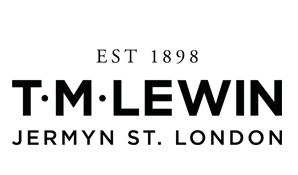
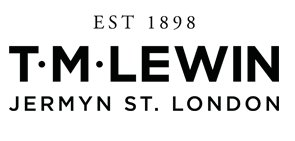
Changes to role pages to align them

Changed region(s): [[0.0305, 0.2553, 0.9763, 0.8511], [0.3051, 0.0851, 0.4576, 0.227], [0.4881, 0.1135, 0.6712, 0.227]]

diff --git a/css/style.css b/css/style.css
@@ -1248,6 +1248,10 @@ textarea {
   margin-top: 10px;
 }
 
+.search-page-container {
+  margin: 10px 0 200px;
+}
+
 .search-criteria-para {
   width: 80%;
   margin: 20px auto 0;
@@ -1728,8 +1732,8 @@ textarea {
 
   .company-details-role-page-rec-logo {
     display: inline-block;
-    width: 65%;
-    margin-left: 20px;
+    width: 60%;
+    margin-left: 35px;
   }
 
   .company-details-role-page {
@@ -2142,6 +2146,10 @@ textarea {
   /*role page styling*/
   .role-container {
     width: 80%;
+  }
+
+  .company-img-rec-logo {
+    width: 20%;
   }
 
   .company-info {

diff --git a/2-to-5-years-PQE.html b/2-to-5-years-PQE.html
@@ -102,7 +102,7 @@
       </div>
     </section>
 
-    <section class="background-container">
+    <section class="search-page-container">
       <div class="clearfix links">
         <a href="http://www.calxx.co.uk" class="home-page">
           <i class="fa fa-home"></i>

diff --git a/finance-manager-tmlewin.php b/finance-manager-tmlewin.php
@@ -226,19 +226,19 @@
               <li class="key-requirements-li">
                 <div>
                   <i class="fa fa-graduation-cap"></i>
-                  <p class="key-requirements-text">c. 2 years PQE</p>
+                  <p class="key-requirements-text">c. 2 to 5 years PQE</p>
                 </div>
               </li>
               <li class="key-requirements-li">
                 <div>
                   <i class="fa fa-star"></i>
-                  <p class="key-requirements-text">Finance skills: Business Partnering, Planning</p>
+                  <p class="key-requirements-text">Finance skills: Financial Reporting, Planning</p>
                 </div>
               </li>
               <li class="key-requirements-li">
                 <div>
                   <i class="fa fa-balance-scale"></i>
-                  <p class="key-requirements-text">Industry experience essential, retail experience advantagous</p>
+                  <p class="key-requirements-text">Retail experience essential</p>
                 </div>
               </li>
               <li class="key-requirements-li">
@@ -258,9 +258,7 @@
 
           <div class="key-requirements">
             <h5>Why apply for the role</h5>
-            <p>Digital is changing the world, starting with the way we shop. Today it’s online shopping and click-and-collect, tomorrow it will be something not yet imagined. It’s a fast-moving world, where fresh ideas are welcome – along with the pace and flexibility to lead the way.
-            Kingfisher is building a state-of-the-art digital home in the heart of London – a place where digital creators and innovators like you will come together and shape the digital future for more than 23 million home improvement customers in 1,176 stores in the UK and across Europe.
-            It’s a chance to be part of something new. A chance to do big things in small, close-knit teams. A chance to feel the energy of a small agency – with the financial resources of a major retailer. And a chance to be rewarded for your talent, creativity and energy as well as your time.</p>
+            <p>TM Lewin is passionate about its people and offers the opportunity to work in a fun, energetic and fast paced culture. We are high performing business and provide high levels of challenge and support. The role will offer the opportunity for the right candidate to role switch within a dynamic finance team to gain a wider base of experience in what is a dynamic and growing business.</p>
           </div>
 
           <div class="role-descrip">
@@ -272,99 +270,122 @@
               </li>
               <li>
                 <i class="fa fa-check-circle font-awesome-icon"></i>
-                <p class="list-items-para">Pension up to 22%</p>
+                <p class="list-items-para">Generous holiday entitlement which grows with your length of service</p>
               </li>
               <li>
                 <i class="fa fa-check-circle font-awesome-icon"></i>
-                <p class="list-items-para">Competitive annual bonus</p>
+                <p class="list-items-para">Substantial discount for you AND your family and friends</p>
               </li>
               <li>
                 <i class="fa fa-check-circle font-awesome-icon"></i>
-                <p class="list-items-para">25 days leave</p>
-              </li>
-              <li>
-                <i class="fa fa-check-circle font-awesome-icon"></i>
-                <p class="list-items-para">
-                Life assurance and health care cover</p>
+                <p class="list-items-para">Complimentary workwear from the T.M. Lewin range</p>
               </li>
               <li>
                 <i class="fa fa-check-circle font-awesome-icon"></i>
                 <p class="list-items-para">
-                Share save scheme</p>
+                Performance related bonus scheme</p>
               </li>
               <li>
                 <i class="fa fa-check-circle font-awesome-icon"></i>
                 <p class="list-items-para">
-                Cycle to work</p>
+                LOVE2SHOP everyday benefit card offering discounts across 60 retailers</p>
+              </li>
+              <li>
+                <i class="fa fa-check-circle font-awesome-icon"></i>
+                <p class="list-items-para">
+                Cycle to work scheme</p>
               </li>
               <li>
                 <i class="fa fa-check-circle font-awesome-icon"></i>
                 <p class="list-items-para">
                   20% discount card</p>
               </li>
+              <li>
+                <i class="fa fa-check-circle font-awesome-icon"></i>
+                <p class="list-items-para">
+                  Season ticket loan</p>
+              </li>
             </ul>
           </div>
 
           <div class="role-descrip">
             <h5>The role</h5>
-            <p>Kingfishers Digital activity has grown significantly over the last 2 years, pursuant of the One Kingfisher strategy. We now have established finance processes within our Digital teams. Our Digital Programmes and Projects are co-led by a Business Transformation Managers (BTMs) and IT Delivery Leads. Whilst the IT Delivery Lead is responsible for building and delivering IT functionality, the BTM is responsible for ensuring it lands within the business. The work load now necessitates hiring finance business partnering support for the BTMs and IT Delivery Leads.</p>
-            <p class="margin-adj">The Business Partner is a key role within the Finance Team, working closely with the BTMs and IT Delivery Leads alike. The role delivers advanced insight and value added analysis, building strong relationships across the function, including significant interaction with the Digital leadership team and the group finance function. The role will also be responsible for providing analytical support on key business decisions and on-going appraisal of existing Digital projects via Business Cases.</p>
-            <p class="margin-adj">Key responsibilities include:</p>
+            <p>TM Lewin is seeking a Finance Manager to assume responsibility for the production of management accounts, including banking and cash flow forecasting. This role will report into the Head of finance and CFO.</p>
+            <p class="margin-adj">The role will primarily involve the following duties and responsibilities:</p>
             <ul class="terms-line-items terms-line-items-adj">
-              <li>Responsibility for consolidated cost story</li>
+              <li>Overseeing the full spectrum of financial and management accounting, including regulatory reporting for the business (audit and tax compliance)</li>
               <li>
-              Providing costs for Business cases relating to Digital Product/Service
+              Cash flow forecasting and Forex requirements
               </li>
               <li>
-              Support key stakeholders on all finance related topics
+              Establishing and building excellent relationships with key stakeholders across the business, including all members of the Executive Board
               </li>
               <li>
-              Ownership for month end, group forecasts and budget. Consolidating, reviewing and challenging the costs with stakeholders.
-              </li>
-            </ul>
-          </div>
-
-          <div class="role-descrip">
-            <h5>We are looking for a business partner that can:</h5>
-            <ul class="terms-line-items terms-line-items-adj">
-              <li>Take a Lead role in all planning and forecasting activities of Digital - actively contributing to the planning process and decision making regarding assumptions, challenging key stakeholders where necessary and ensuring that all assumptions are robust and defensible.</li>
-              <li>
-              Take responsibility for delivering improvements in modelling, forecasting and analytical techniques to improve reporting and analysis
+              Working closely with the Merchandising team in regards to managing stock intake.
               </li>
               <li>
-              Provide analytical support on key business decisions, including new business initiatives and on-going appraisal of existing projects performance
+                Responsibility for Tax, VAT and duty, supporting the Head of Finance in regards to setting up of the tax structure within the business.
               </li>
               <li>
-              Build strong relationships with key contacts and provide high quality analysis that helps drive improvement
+                Ensuring our ways of working are as cost-effective as possible by monitoring day-to-day reporting and also implementing new processes where necessary
+              </li>
+              <li>
+                Providing performance leadership in the continuous evaluation of short and long-term strategic objectives
+              </li>
+              <li>
+                Effectively managing a team
+              </li>
+              <li>
+                Providing support with audits in conjunction with the Head of Finance.
               </li>
             </ul>
           </div>
 
           <div class="role-descrip">
             <h5>Experience</h5>
-            <p>The successful candidate will be either be a qualified Finance Professional (ACA, ACCA, CIMA or equivalent), who is highly numerate with the ability to produce robust financial analysis. In addition:</p>
+            <p>The successful candidate will be either be a qualified Finance Professional (ACA, ACCA, CIMA), who has experience as a Finance Manager within a fast-paced retail environment, ideally from a practice background. In addition:</p>
             <ul>
               <li>
                 <i class="fa fa-check-circle font-awesome-icon"></i>
-                <p class="list-items-para">         have a proven track record of delivering quantifiable benefits to businesses</p>
+                <p class="list-items-para">         Be proficient in team management</p>
               </li>
               <li>
                 <i class="fa fa-check-circle font-awesome-icon"></i>
-                <p class="list-items-para">be comfortable working in a fast-paced and highly fluid environment</p>
+                <p class="list-items-para">Strong commercial awareness</p>
               </li>
               <li>
                 <i class="fa fa-check-circle font-awesome-icon"></i>
-                <p class="list-items-para">Excellent analytical skills are a necessity</p>
-              </li>
-              <li>
-                <i class="fa fa-check-circle font-awesome-icon"></i>
-                <p class="list-items-para">
-                Strong relationship building, resilience and interpersonal skills are a pre-requisite</p>
+                <p class="list-items-para">The ability to deal with people at all levels across our business</p>
               </li>
               <li>
                 <i class="fa fa-check-circle font-awesome-icon"></i>
                 <p class="list-items-para">
-                We expect the candidate to have at least 2 years experience out of the profession but if you can demonstrate the necessary skills and experience that we require, please do apply.</p>
+                Strong presentation skills and experience presenting to senior management and directors</p>
+              </li>
+              <li>
+                <i class="fa fa-check-circle font-awesome-icon"></i>
+                <p class="list-items-para">
+                Excellent oral and written communication skills</p>
+              </li>
+              <li>
+                <i class="fa fa-check-circle font-awesome-icon"></i>
+                <p class="list-items-para">
+                Strong knowledge of accounting regulations</p>
+              </li>
+              <li>
+                <i class="fa fa-check-circle font-awesome-icon"></i>
+                <p class="list-items-para">
+                Demonstrable problem-solving, analytical, technical, IT and numerical abilities</p>
+              </li>
+              <li>
+                <i class="fa fa-check-circle font-awesome-icon"></i>
+                <p class="list-items-para">
+                Ability to work to deadlines and be flexible to deal with changing focus and business demands</p>
+              </li>
+              <li>
+                <i class="fa fa-check-circle font-awesome-icon"></i>
+                <p class="list-items-para">
+                We expect the candidate to have between 2 and 5 years experience but if you can demonstrate the necessary skills and experience that we require, please do apply.</p>
               </li>
             </ul>
           </div>
@@ -378,7 +399,7 @@
           <div class="role-descrip">
             <h5>Next steps</h5>
             <p>If you are interested in this role, please complete the application form below. This form is sent directly to the hiring company for consideration.</p>
-            <p class="margin-adj">Kingfisher plc is an Equal Opportunities Employer and as such, treats all applications equally and recruits purely on the basis of skills and experience.</p>
+            <p class="margin-adj">TM Lewin is an Equal Opportunities Employer and as such, treats all applications equally and recruits purely on the basis of skills and experience.</p>
           </div>
 
           <section class="application-section">
@@ -417,13 +438,6 @@
                     <option value="CIMA">CIMA</option>
                   </select>
                   <span class="error"><?= $qualification_error ?></span>
-                  <p class="apply-now-para">Do you have experience in industry (i.e. outside of audit)?</p>
-                  <select name="experience" value="<?= $experience ?>" class="select-box-application" tabindex="3">
-                    <option value=""></option>
-                    <option value="Yes">Yes</option>
-                    <option value="No">No</option>
-                  </select>
-                  <span class="error"><?= $experience_error ?></span>
                   <p class="apply-now-para">Your salary expectations:</p>
                   <select name="salary_expectations" value="<?= $salary_expectations ?>" class="select-box-application" tabindex="3">
                     <option value=""></option>
@@ -472,7 +486,7 @@
       <section class="featured-job-container similar-job-container">
         <h4 class="featured-job-heading similar-job-heading">Similar Jobs</h4>
         <ul class="row-flex">
-          <li class="featured-job featured-jobs-list-item">
+          <!-- <li class="featured-job featured-jobs-list-item">
             <a href="http://www.calxx.co.uk/finance-manager-tmlewin" target="_blank" class="featured-jobs-link">
               <p class="featured-job-title">Finance Manager at TM Lewin</p>
               <div class="featured-job-info">
@@ -487,8 +501,8 @@
                 <p class="location-para">Perm and full-time</p>
               </div>
             </a>
-          </li>
-<!--
+          </li> -->
+
           <li class="featured-job featured-jobs-list-item">
             <a href="http://www.calxx.co.uk/finance-business-partner-kingfisher-digital" target="_blank" class="featured-jobs-link">
               <p class="featured-job-title">Finance Business Partner at Kingfisher Digital</p>
@@ -504,7 +518,7 @@
                 <p class="location-para">Perm and full-time</p>
               </div>
             </a>
-          </li> -->
+          </li>
 
           <li class="featured-job featured-jobs-list-item">
             <a href="http://www.calxx.co.uk/financial-controller-and-planning-verve" target="_blank" class="featured-jobs-link">
@@ -620,7 +634,7 @@
     </script>
     <script>
     function initMap() {
-      var uluru = {lat: 51.5199497, lng: -0.0848081};
+      var uluru = {lat: 51.5204549, lng: -0.1092142};
       var map = new google.maps.Map(document.getElementById('map'), {
       zoom: 15,
       center: uluru

diff --git a/form_processTMLEWIN.php b/form_processTMLEWIN.php
@@ -10,6 +10,7 @@ $file_msg = $firstname_error = $lastname_error = "";
 $email_error = "";
 $validation_error = $success = $qualification_error = "";
 $first_name = $last_name = $email = $infouse_error = "";
+$salary_expectations_error = $eligibility_error = "";
 
 
 if(isset($_POST["g-recaptcha-response"])) {
@@ -52,6 +53,18 @@ if(isset($_POST["g-recaptcha-response"])) {
       $qualification_error = "Please select from the dowpdown menu";
     } else {
       $qualification = ($_POST["qualification"]);
+    }
+
+    if ($_POST["salary_expectations"] == "") {
+      $salary_expectations_error = "Please select from the dowpdown menu";
+    } else {
+      $salary_expectations = ($_POST["salary_expectations"]);
+    }
+
+    if ($_POST["eligibility"] == "") {
+      $eligibility_error = "Please select from the dowpdown menu";
+    } else {
+      $eligibility = ($_POST["eligibility"]);
     }
 
     if ($_POST["validate_info"] == "") {
@@ -106,7 +119,7 @@ if(isset($_POST["g-recaptcha-response"])) {
         $file_msg = "Unknown error, please upload a different file";
     }
 
-      if ($firstname_error == "" and $lastname_error == "" and $email_error == "" and $qualification_error == "" and $validation_error == "" and $file_msg == "" and $infouse_error == "") {
+      if ($firstname_error == "" and $lastname_error == "" and $email_error == "" and $qualification_error == "" and $validation_error == "" and $file_msg == "" and $infouse_error == "" and $salary_expectations_error == "" and $eligibility_error == "") {
         require '/var/sites/c/calxx.co.uk/public_html/phpmailer/src/Exception.php';
         require '/var/sites/c/calxx.co.uk/public_html/phpmailer/src/PHPMailer.php';
         require '/var/sites/c/calxx.co.uk/public_html/phpmailer/src/SMTP.php';
@@ -137,6 +150,8 @@ if(isset($_POST["g-recaptcha-response"])) {
         ."<p>Name: " . $first_name ." " . $last_name ."</p>"
         ."<p>Email address: " . $email ."</p>"
         ."<p>Qualification: " . $qualification ."</p>"
+        ."<p>What are your salary expectations: " . $salary_expectations ."</p>"
+        ."<p>Are you eligible to live and reside in the UK?: " . $eligibility ."</p>"
         ."<p>Info provided is correct: " . $validate_info . "</p>"
         ."<p>This email was sent by calxx (www.calxx.co.uk) - a job search platform for qualified accountants. Our aim is to make the job search process simpler, better, easier</p>";
 

diff --git a/financial-controller-MWM.php b/financial-controller-MWM.php
@@ -186,23 +186,6 @@
             </p>
           </div>
 
-          <section class="shortcut-buttons">
-            <a href="https://www.facebook.com/sharer/sharer.php?u=http%3A%2F%2Fwww.calxx.co.uk%2Ffinancial-controller-aedii&amp;src=sdkpreparse" class="shortcut-apply facebook-btn">
-              <i class="fa fa-facebook"></i>
-              <p class="button-text">share</p>
-            </a>
-
-            <a href="http://www.calxx.co.uk/jobalerts" target="_blank" class="shortcut-apply job-alerts-btn">
-              <i class="fa fa-send-o"></i>
-              <p class="button-text">job alerts</p>
-            </a>
-
-            <a href="#apply" class="shortcut-apply apply-btn">
-              <i class="fa fa-pencil"></i>
-              <p class="button-text">apply</p>
-            </a>
-          </section>
-
           <div class="key-requirements">
             <h5>Highlights</h5>
             <ul class="key-req-li-container">
@@ -296,19 +279,6 @@
               </li>
               <li>
                 Scenario planning to test different future strategies and resource plan
-              </li>
-            </ul>
-          </div>
-
-          <div class="role-descrip">
-            <h5>Finance competencies</h5>
-            <p>We expect the candidate to be able to demonstrate skill in the following core finance competencies:</p>
-            <ul>
-              <li>
-                <div class="key-skills">Financial Reporting</div>
-              </li>
-              <li>
-                <div class="key-skills">Planning</div>
               </li>
             </ul>
           </div>
